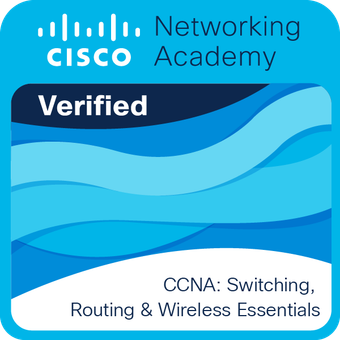
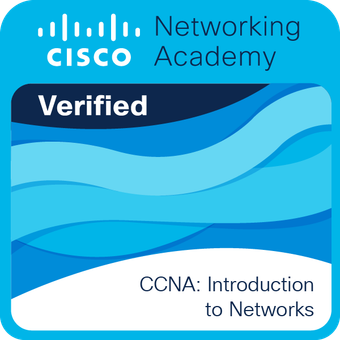
update skills section

Changed region(s): [[0.2059, 0.7941, 0.9412, 0.9412]]

diff --git a/src/components/Portfolio.js b/src/components/Portfolio.js
@@ -1,5 +1,8 @@
 import { Mail, Phone, MapPin, Github, Facebook } from "lucide-react"
 import profilePicture from "../assets/JackyRocha.JPEG"
+import ccna1Badge from "../assets/ccna/CCNA 1.png"
+import ccna2Badge from "../assets/ccna/CCNA 2.png"
+import ccna3Badge from "../assets/ccna/CCNA 3.png"
 import "./Portfolio.css"
 
 const Portfolio = () => {
@@ -14,6 +17,24 @@ const Portfolio = () => {
     "SQL",
     "C++",
     "Linux",
+  ]
+  
+  const certifications = [
+    {
+      name: "CCNA 1: Introduction to Networks",
+      image: ccna1Badge,
+      alt: "CCNA 1 Certification Badge",
+    },
+    {
+      name: "CCNA 2: Switching, Routing, and Wireless Essentials",
+      image: ccna2Badge,
+      alt: "CCNA 2 Certification Badge",
+    },
+    {
+      name: "CCNA 3: Cybersecurity Essentials",
+      image: ccna3Badge,
+      alt: "CCNA 3 Certification Badge",
+    },
   ]
 
   const experiences = [
@@ -112,11 +133,22 @@ const Portfolio = () => {
         <div className="container">
           <h2 className="section-title">Skills & Technologies</h2>
           <div className="card">
+            <h3 className="subsection-title">Technical Skills</h3>
             <div className="skills-grid">
               {skills.map((skill, index) => (
                 <span key={index} className="skill-badge">
                   {skill}
                 </span>
+              ))}
+            </div>
+
+            <h3 className="subsection-title">Certifications</h3>
+            <div className="certifications-grid">
+              {certifications.map((cert, index) => (
+                <div key={index} className="certification-item">
+                  <img src={cert.image || "/placeholder.svg"} alt={cert.alt} className="certification-badge" />
+                  <p className="certification-name">{cert.name}</p>
+                </div>
               ))}
             </div>
           </div>

diff --git a/src/components/Portfolio.css b/src/components/Portfolio.css
@@ -216,6 +216,60 @@
   font-size: 0.875rem;
   font-weight: 500;
 }
+
+/* Subsection titles within cards */
+.subsection-title {
+  font-size: 1.25rem;
+  font-weight: 600;
+  color: #1e293b;
+  margin-bottom: 1rem;
+  margin-top: 0;
+}
+
+.subsection-title:not(:first-child) {
+  margin-top: 2rem;
+}
+
+/* Certifications Section */
+.certifications-grid {
+  display: grid;
+  grid-template-columns: repeat(auto-fit, minmax(250px, 1fr));
+  gap: 1.5rem;
+}
+
+.certification-item {
+  display: flex;
+  flex-direction: column;
+  align-items: center;
+  text-align: center;
+  padding: 1rem;
+  border-radius: 0.5rem;
+  background: #f8fafc;
+  border: 1px solid #e2e8f0;
+  transition: transform 0.3s, box-shadow 0.3s;
+}
+
+.certification-item:hover {
+  transform: translateY(-2px);
+  box-shadow: 0 4px 12px rgba(0, 0, 0, 0.1);
+}
+
+.certification-badge {
+  width: 80px;
+  height: 80px;
+  object-fit: contain;
+  margin-bottom: 0.75rem;
+  border-radius: 0.375rem;
+}
+
+.certification-name {
+  font-size: 0.875rem;
+  font-weight: 500;
+  color: #475569;
+  line-height: 1.4;
+  margin: 0;
+}
+
 /* Work Experience Section */
 .experience-list {
   display: flex;
